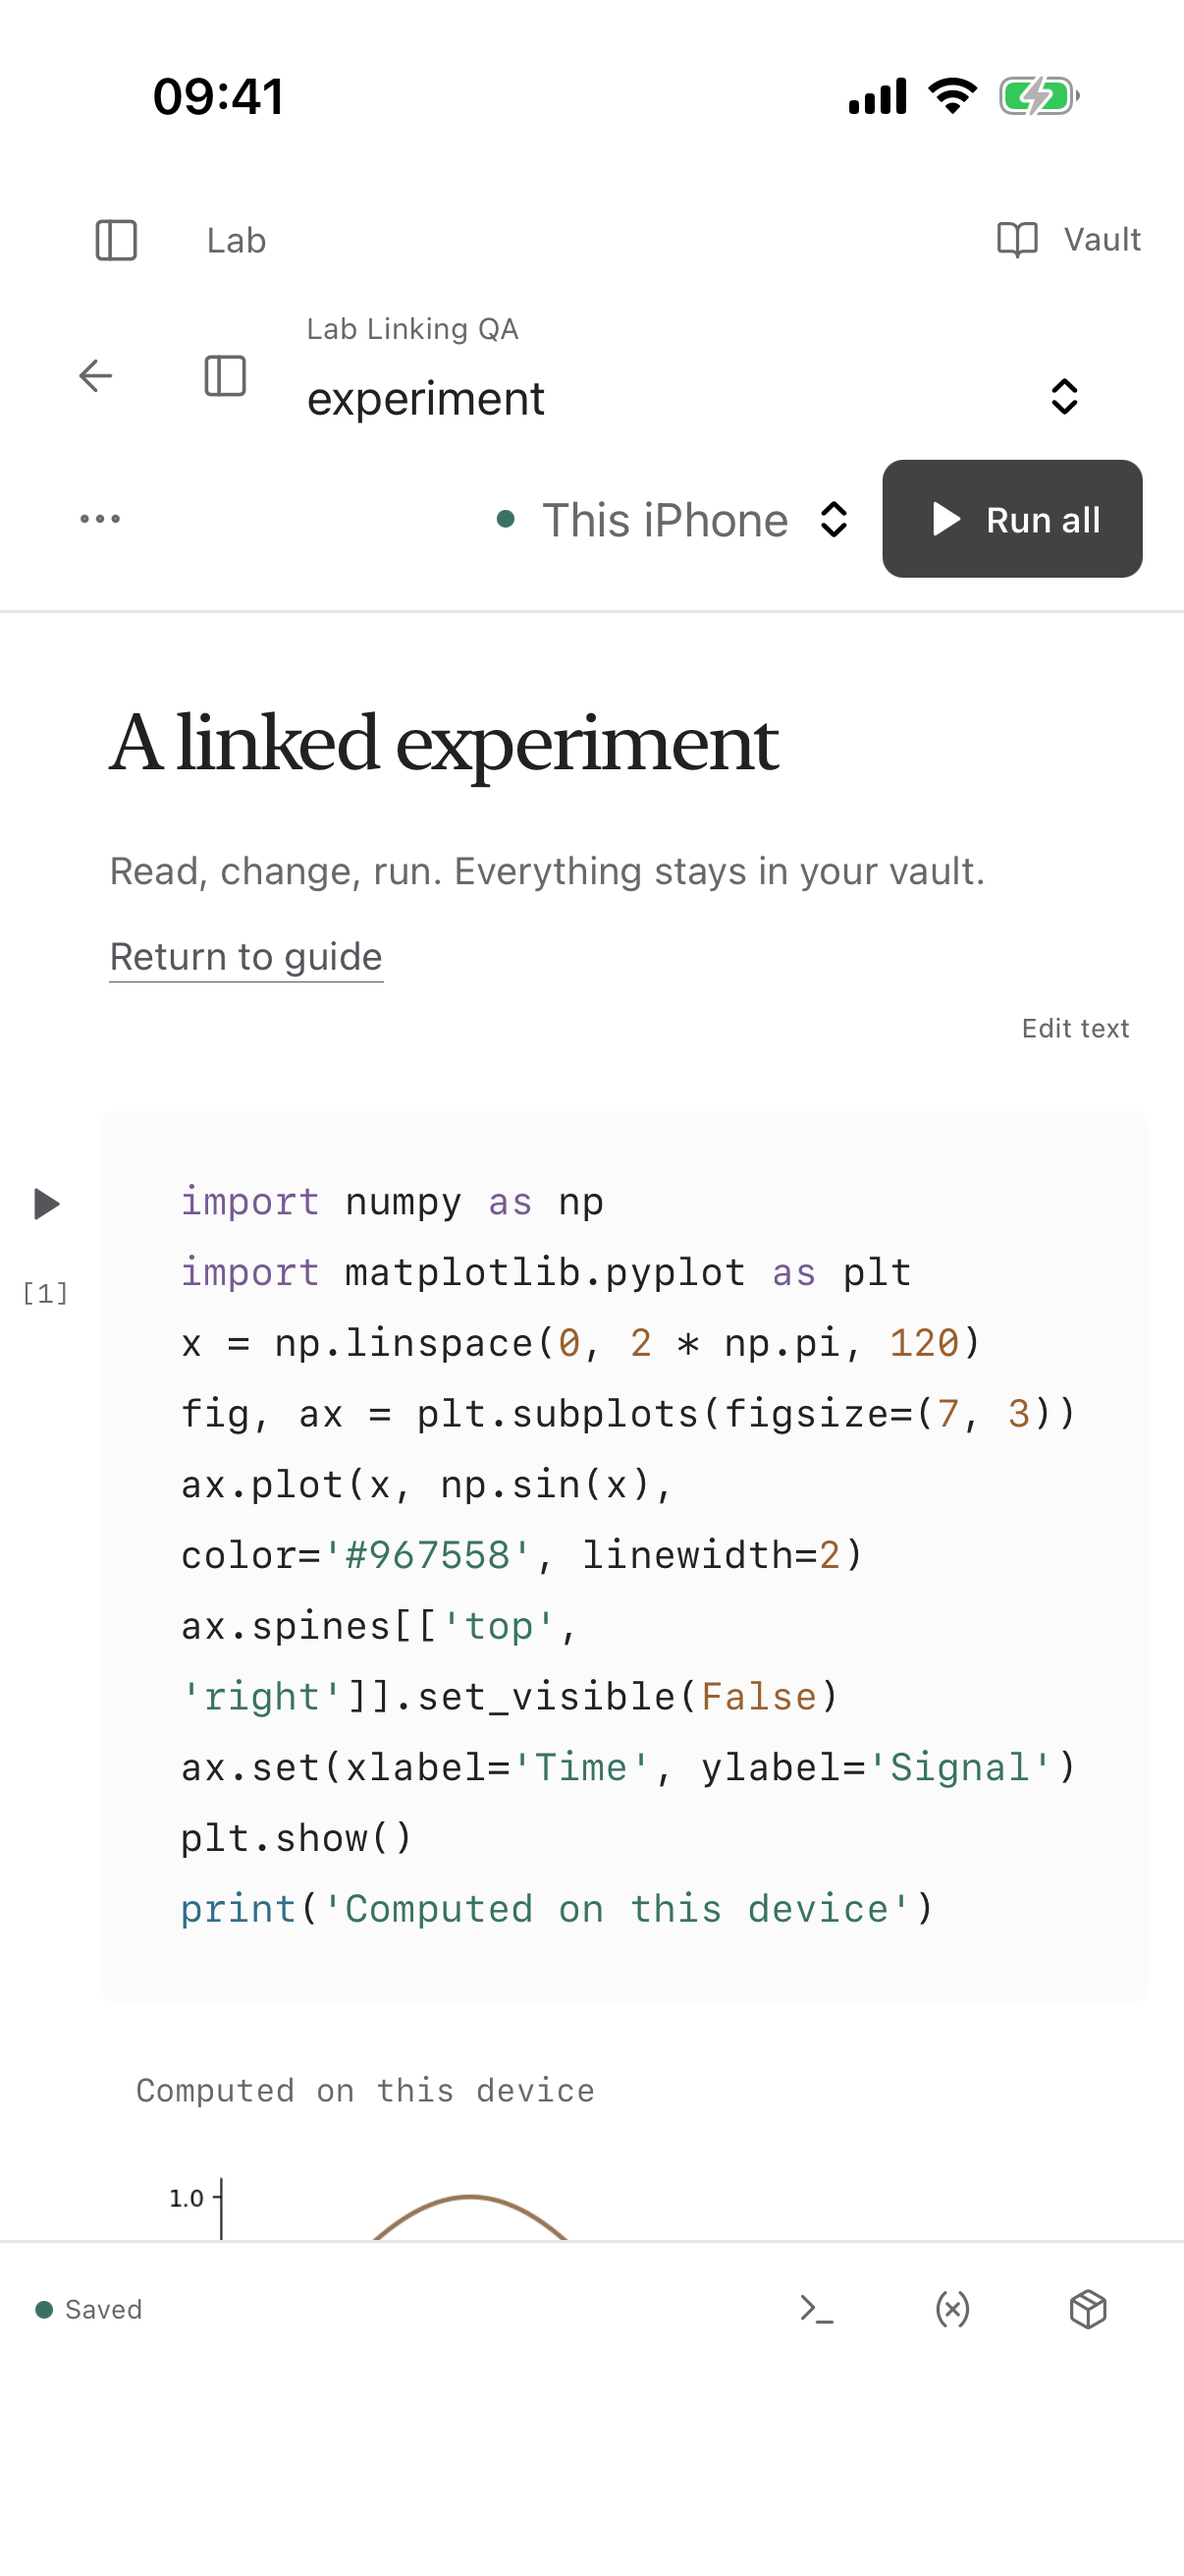
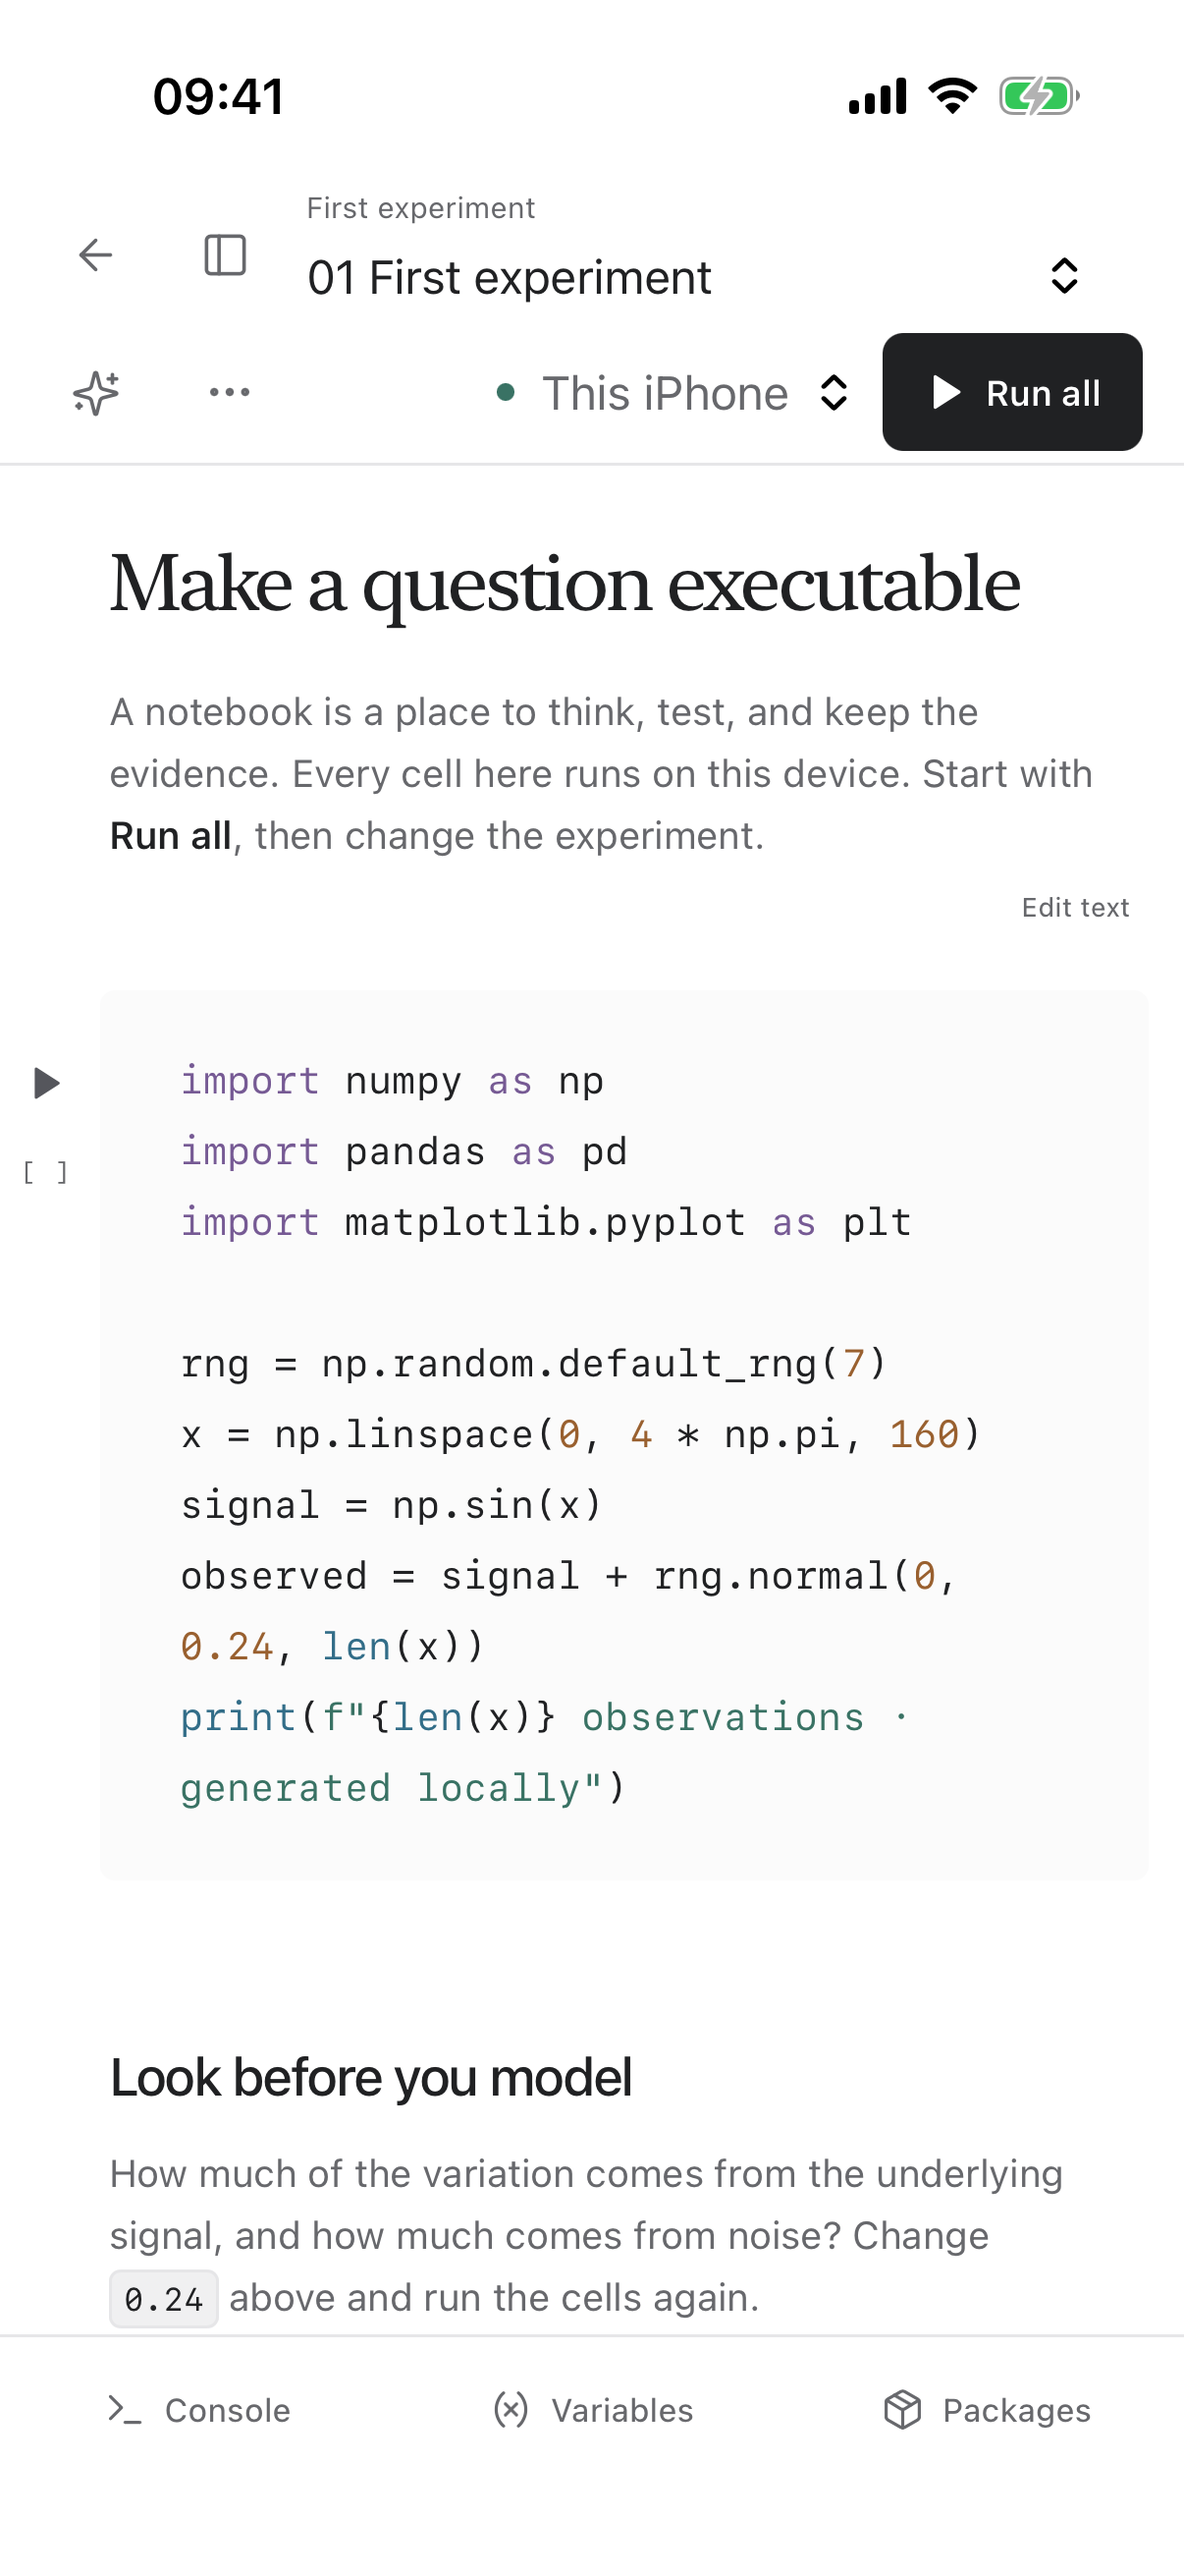
Document the Lab beta and verified mobile workspace layouts

diff --git a/docs/RELEASE_NOTES.md b/docs/RELEASE_NOTES.md
@@ -1,29 +1,23 @@
-# 0.5.0-beta.1
+# 0.5.0-beta.3 · Lab inside Vault
 
-Vault is a private document workspace for Mac, iPhone, and iPad. Ordinary folders remain the source of truth; local search, progressive readers, direct device sync, and native local AI keep the workspace close to your files.
+Enable **Settings → Lab → Enable Lab** to work with Python and Jupyter notebooks inside the existing Vault app. Lab is optional; your folders, Markdown reader, links, and device sync stay part of the same workspace.
 
-## Downloads
+## In this release
 
-- **Vault-0.5.0-beta.1-macOS-arm64.zip**: the lightweight Mac app. Install either Qwen starter in Settings → Models & chat.
-- **Vault-0.5.0-beta.1-Mac-Starter.zip**: the same app with the pinned Qwen 3.5 2B 4-bit model included. Unzip, move Vault.app to Applications, choose a folder, and start a local conversation. Qwen 4B is available as an optional download.
-- **SHA256SUMS.txt**: checksums of release assets.
-- **vault-demo-1080p.mp4** and **vault-social-28s.mp4**: product videos using a fictional library.
+- Python and notebook discovery in selected vault folders, including older saved file rules; filenames and wikilinks open local files in place.
+- Local iPhone/iPad Python, scientific libraries, plots, variables, tests, Git tools, and explicit MLX/Metal GPU bridges.
+- A searchable folder tree with separate run history, expandable Console/Variables/Packages panels, and a full-width assistant on phones.
+- Notebook `%pip` and `!pip` installs, project caches, bounded download retries, and concise errors with expandable details.
+- Notebook access to installed Vault models, plus optional Codex and Claude Code adapters using an existing Mac CLI login.
 
-Mac downloads require Apple silicon and macOS 14 or later. These bundles are Developer ID signed **but not notarized**; macOS may display a security warning or block opening. This beta has no automatic updater. Download releases only from this repository.
+## Downloads and updates
 
-iPhone/iPad distribution is source-based: build with Xcode and your own signing team. There is no generally installable public IPA, App Store release, or TestFlight invitation. See [BUILDING.md](BUILDING.md) and [the model guide](../models/README.md).
+**Mac:** choose the smaller Apple-silicon app download or Mac Starter with the pinned, licensed Qwen 3.5 2B model. macOS 14 or later is required. Both bundles are Developer ID signed and are not notarized. For Lab, prepare a local Python environment using [the build guide](BUILDING.md); remote hosting is optional.
 
-## Included
+**iPhone/iPad:** one universal build, **0.5.0 (28)**, uses the original Vault app identifier. Install updates over Vault to preserve local files and models. [TestFlight invitation](https://testflight.apple.com/join/2G2ngjAk). GitHub publication and successful uploads do not imply Apple beta-review approval. Current upload, processing, and review status are recorded on the [GitHub release](https://github.com/lbrendle/vault/releases/tag/v0.5.0-beta.3).
 
-- Progressive Markdown and continuous, virtualized PDF reading.
-- Linked documents, local search, graph exploration, tabs, properties, and recovery copies.
-- Twenty-four palettes with light and dark variants.
-- Native local MLX inference, two pinned Qwen starters, and model-folder import.
-- Authenticated direct device sync, changed-file transfer, resumable binary files, and shared conversation state.
-- Fixes for workspace-switch races, tags and citations, sidebar page refreshes, and iPhone swipe-versus-tap handling.
+## Validation and limits
 
-## Current limits
+43 web tests, 37 Swift core tests, and 17 Python tests pass. Native builds and Simulator layout checks cover both phone and tablet layouts. Earlier physical-device checks exercised scientific notebooks, original-file saves, GPU calls, package installation, and installed local models. See [validation scope](VALIDATION.md) for the exact boundaries.
 
-Keep Vault open on both devices during initial sync. Large libraries take time to transfer and index; iOS can suspend background work. Internet relay sync, guaranteed background sync, GGUF, Ollama/LM Studio connections, and third-party plugin execution are not included. See [COMPATIBILITY.md](COMPATIBILITY.md).
-
-Model quality and memory needs vary. The 4B checkpoint passed a small native evidence-and-arithmetic smoke check on Mac and iPhone; the smaller 2B model made an arithmetic error with thinking disabled. Verify model claims against your sources. See [VALIDATION.md](VALIDATION.md).
+Current Codex/Claude Code npm distributions have no iOS target; a working on-device port is not included. Optional paired-Mac Lab execution over LAN/Tailscale still needs a passing physical-device acceptance check. The iOS console is an embedded Python/tool console, and does not provide arbitrary Unix subprocesses or every native scientific package. [Lab capabilities and setup](LAB.md).

diff --git a/docs/VALIDATION.md b/docs/VALIDATION.md
@@ -8,9 +8,9 @@ The Qwen 3.5 4B checkpoint completed a native local text-generation smoke test o
 
 A compile is not a physical-device inference result. Local execution is not the same as a separately observed radios-off test. Complete format and workflow coverage, universal hardware support, independent security auditing, App Store approval, and seamless iOS background networking are not claimed.
 
-## Optional Lab development candidate — September 13, 2026
+## Optional Lab — build 28, September 14, 2026
 
-This entry describes the Lab development branch, not the published build 27 beta.
+These checks distinguish earlier physical-device execution from the final workspace layout checks.
 
 - 43 web tests, 37 Swift core tests, and 17 Python script tests passed. Regression coverage includes original-folder saves, stale-write rejection, path/symlink boundaries, legacy file-rule migration, code discovery before indexing, explicit code extensions, notebook Markdown links/backlinks, and Jupyter metadata round trips. Package regressions cover notebook pip commands, string-literal preservation, bounded download retries, writable caches, installed-package reuse, and install-path restrictions. Assistant tests cover bounded context and conversation separation.
 - The existing Mac and iPhone/iPad app targets built in Release configuration. The iPhone Simulator target also built. Original shipping identifiers are retained: com.archii.vault on Mac and com.archii.vault.ios on iPhone/iPad. The original Mac and physical iPhone installations were updated in place with their selected vault references preserved.
@@ -19,6 +19,8 @@ This entry describes the Lab development branch, not the published build 27 beta
 - A physical iPad UI test enabled Lab, opened a Python file through an ordinary note link, ran it in its original folder, opened a notebook through a wikilink, ran and saved its output, followed its Markdown link back to the guide, disabled Lab, and verified that it remained hidden after relaunch. An earlier physical test covered editing Python with the software keyboard and running the saved file after relaunch.
 - The same link, execution, toggle, and relaunch flow passed in the iPhone 17 Pro Simulator. Screenshot review verified the phone's two-row toolbar and accessible footer controls after correcting overlapping labels.
 - Mac UI checks followed note links into the original Python file and notebook, executed both through the local Python process, generated a Matplotlib plot, and followed the notebook link back to the guide. A separate Mac worker check passed SciPy, scikit-learn, real subprocess execution, and pytest.
+- The revised file tree, expanded/shrunken tools, packages panel, assistant settings, and keyboard layout passed XCTest interaction checks in both iPhone and iPad Simulators. Console and assistant input bounds stayed above the software keyboard. Final physical-device UI rechecks were blocked when Xcode could not initialize device automation; the iPad was unavailable for the latest installation.
+- Distribution validation identified build-only NumPy static libraries and incorrect Python-extension bundle types. Packaging now removes those static archives, marks extension frameworks as FMWK, re-signs them, and validates native-extension references in CI.
 - Mac setup recovered from a missing Python executable through the app's host settings, with remote hosting disabled.
 
 The original Vault app on a physical iPhone 17 Pro passed original-file execution/saves, session/error checks, all four scientific/GPU notebooks, and a notebook call through an already-installed Qwen model. Local model generation and subsequent GPU access passed. The optional Claude Code and Codex adapters each returned a synthetic expected response through their actual authenticated Mac CLIs. Adapter tests also cover process errors, timeout cleanup, literal arguments, and permissions. Bare Python filenames no longer become HTTP links; web regressions cover notebook paths with spaces, relative paths, encoded characters, and aliases. The paired-Mac LAN acceptance test did not pass; that path remains unverified. Full PyTorch/MLX Python APIs, arbitrary native iOS wheels, subprocess isolation on iOS, and complete advanced scientific-curriculum compatibility are not claimed. See [Lab capabilities](LAB.md).

diff --git a/README.md b/README.md
@@ -6,7 +6,7 @@
 
 Vault is a private document workspace built around ordinary folders. Open your existing Markdown vault, read PDFs, follow connections, and talk with a model running on your own hardware. Keep the folder on your drive. Take a backup with you. Your research does not need a hosted workspace.
 
-**Public beta: `0.5.0-beta.2` (build 27).** Read the [document and device support notes](docs/COMPATIBILITY.md) before moving a critical workflow.
+**Public beta: `0.5.0-beta.3` (build 28).** Read the [document and device support notes](docs/COMPATIBILITY.md) before moving a critical workflow.
 
 [![Watch Vault on Mac, iPad, and iPhone](docs/media/vault-demo-poster.jpg)](https://github.com/lbrendle/vault/releases/download/v0.5.0-beta.1/vault-demo-1080p.mp4)
 
@@ -34,7 +34,7 @@ Vault is a private document workspace built around ordinary folders. Open your e
 
 ## Optional development workspace
 
-The development branch adds **Settings → Lab → Enable Lab**. Code and notebooks open in place through existing Vault links, with local Python execution on iPhone/iPad and a local Python process on Mac. Markdown stays in the reader. See [Lab capabilities and current limits](docs/LAB.md). This feature is not part of the build 27 public beta described above.
+Enable **Settings → Lab → Enable Lab** for the optional notebook workspace. Code and notebooks open in place through existing Vault links, with local Python execution on iPhone/iPad and a local Python process on Mac. Markdown stays in the reader. See [Lab capabilities and current limits](docs/LAB.md).
 
 ## Two Qwen companions, ready to use
 
@@ -61,7 +61,7 @@ Device sync uses an authenticated, encrypted direct connection on your local net
 
 Get the latest [release](https://github.com/lbrendle/vault/releases). Mac downloads target **Apple silicon, macOS 14+**. Release notes describe signing/notarization status; this beta is not distributed through the App Store.
 
-For iPhone and iPad, use the [TestFlight invitation](https://testflight.apple.com/join/2G2ngjAk). **Build 27 includes the folder-navigation fix and has been uploaded to Apple.** The first beta (build 26) is still awaiting Apple review; public installation requires approval. The app supports iOS/iPadOS 17+, with local model compatibility depending on hardware and available memory. Both Qwen starters are available in Settings → Models & chat. You can also build with Xcode and your own signing team. [iPhone and iPad installation](docs/INSTALL_IOS.md).
+For iPhone and iPad, use the [TestFlight invitation](https://testflight.apple.com/join/2G2ngjAk). **Build 28 adds the optional Python and notebook Lab.** The release notes record upload and processing status. The first beta (build 26) is still awaiting Apple review; public installation requires approval. The app supports iOS/iPadOS 17+, with local model compatibility depending on hardware and available memory. Both Qwen starters are available in Settings → Models & chat. You can also build with Xcode and your own signing team. [iPhone and iPad installation](docs/INSTALL_IOS.md).
 
 ```sh
 git clone https://github.com/lbrendle/vault.git

diff --git a/docs/LAB.md b/docs/LAB.md
@@ -117,14 +117,12 @@ The embedded environment supports substantial programming, mathematics, data ana
 | Fresh-process reproduction, actual crash/process isolation, CPU multiprocessing | iOS embedded kernel does not satisfy these requirements |
 | Arbitrary Unix toolchains or CUDA/Triton | Not supplied by this iOS environment |
 
-See the [Lab validation entry](VALIDATION.md#optional-lab-development-candidate--september-13-2026) for the distinction between compilation, Simulator checks, physical-device execution, and paired-host testing.
+See the [Lab validation entry](VALIDATION.md#optional-lab--build-28-september-14-2026) for the distinction between compilation, Simulator checks, physical-device execution, and paired-host testing.
 
 ## Screenshots
 
-These captures use a fictional guide and experiment. The iPad screenshot is from physical hardware; the iPhone screenshot is from Apple's Simulator.
+The current workspace captures below use fictional experiments in Apple's iPhone and iPad Simulators. Physical-device execution and earlier layout checks are recorded separately in [VALIDATION.md](VALIDATION.md).
 
-![Notebook executed inside Vault on a physical iPad](screenshots/lab-ipad-notebook.png)
-
-![Optional Lab setting on iPad](screenshots/lab-ipad-settings.png)
+![Notebook and assistant in the iPad Simulator](screenshots/lab-ipad-simulator-workspace.png)
 
 ![Notebook in the iPhone Simulator](screenshots/lab-iphone-simulator-notebook.png)

diff --git a/docs/INSTALL_IOS.md b/docs/INSTALL_IOS.md
@@ -2,7 +2,9 @@
 
 [Join the Vault TestFlight beta](https://testflight.apple.com/join/2G2ngjAk).
 
-The latest build is **0.5.0 (27)**, uploaded September 13, 2026 with the folder-navigation fix. The first public beta, build 26, is still awaiting Apple beta review. Build 27 is processed, attached to the public beta group, and ready for submission. Apple currently blocks its review submission while build 26 is pending; it must be submitted again after that review completes. The invitation accepts installations after Apple approves the build. An unavailable invitation during this period does not mean your device or Apple account is misconfigured.
+The Lab release is **0.5.0 (28)**. Check the [release notes](https://github.com/lbrendle/vault/releases/tag/v0.5.0-beta.3) for its upload and processing status. The first public beta, build 26, was still awaiting Apple review when this release was prepared. Apple permits only one build of a version in beta review at a time. An upload or GitHub release does not establish public TestFlight availability; the invitation accepts installations after Apple approves a build.
+
+Lab is optional in **Settings → Lab**. It provides local Python and Jupyter notebook editing/execution, with a file tree, expandable development panels, and installed local models. See [Lab capabilities](LAB.md) for supported libraries and optional Mac assistants.
 
 ## Install
 
